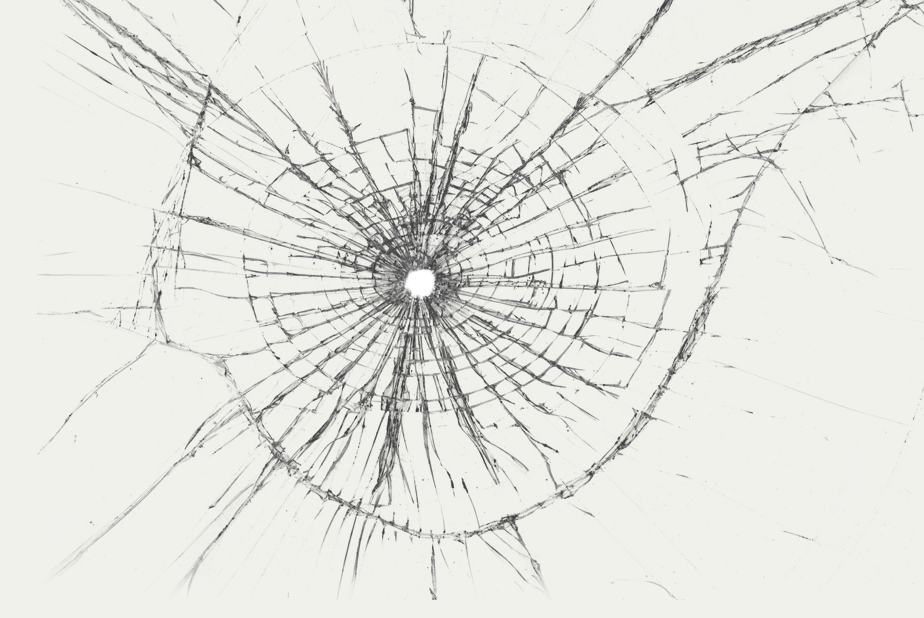
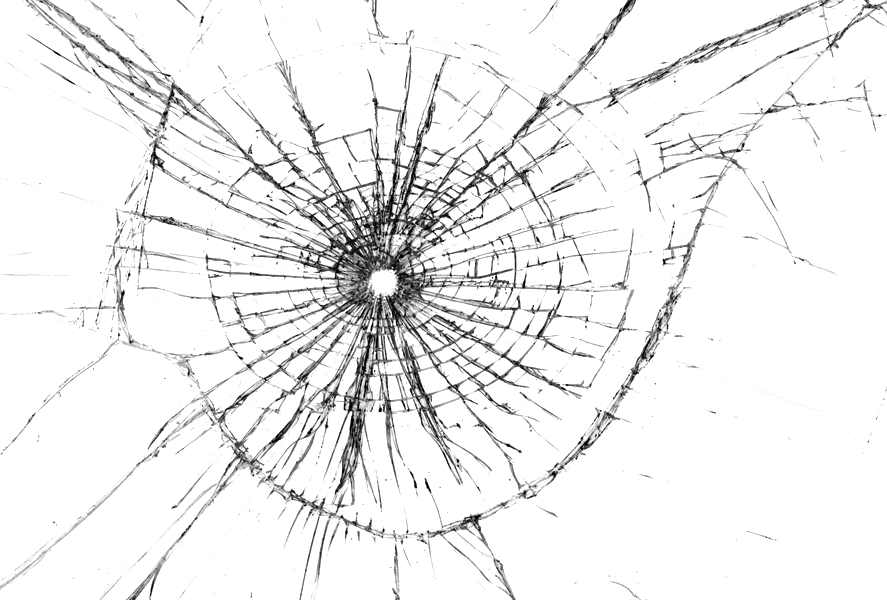
clear broken glass

diff --git a/style.css b/style.css
@@ -1,1 +1,1 @@
[2 lines of base64/hex data omitted]

diff --git a/sass/style.scss b/sass/style.scss
@@ -111,8 +111,6 @@ input:focus {
   left: 0;
   right: 0;
   bottom: 0;
-  background-color: rgba(236,236,230,0.75);
-  background-image: url(/img/brokenglass.png) norepeat;
   z-index: 24;
   img{
   	position: absolute;

diff --git a/header.php b/header.php
@@ -27,6 +27,7 @@
   </head>
   <body <?php body_class(); ?>>
   <div class="glass">
+    <img src="<?php echo get_template_directory_uri(); ?>/img/brokenglass.png" alt="glass">
   </div>
   
         <div class="masthead">
